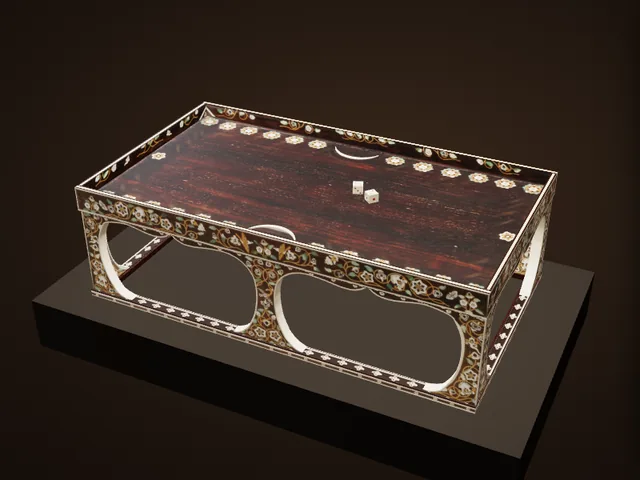
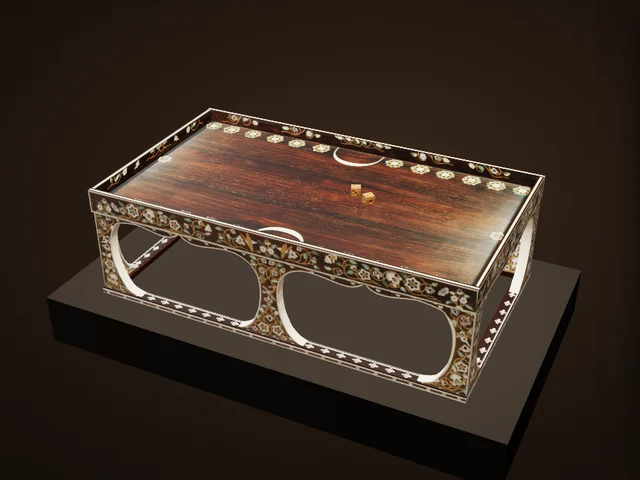
博物館：双六子を実寸の低いドーム形に、双六頭を古い象牙色に、壁の帯の白い三角を除去、PCで対局時に解説がスライド
Claude-Session: https://claude.ai/code/session_019p8B6V1SGvFhMnDpobjUww

Changed region(s): [[0.0625, 0.1875, 0.9375, 0.9688], [0.25, 0.7812, 0.375, 0.8438], [0.375, 0.8438, 0.4062, 0.875]]

diff --git a/atlas/museum/ex/sugoroku.js b/atlas/museum/ex/sugoroku.js
@@ -30,7 +30,7 @@
   const OPEN_S = [[15.4, 3.62], [15.6, 3.81], [16.11, 4.38], [17.37, 4.75], [18.63, 4.72], [19.89, 4.56], [21.15, 4.31], [22.42, 4.1], [23.68, 4], [24.94, 3.97], [26.2, 4.19], [26.86, 4.56], [27.47, 5.19], [27.97, 6.12], [28.27, 7.25], [28.41, 8.5], [28.41, 9.5], [28.27, 10.5], [28.07, 11.5], [27.72, 12.5], [27.26, 13.37], [26.71, 14.12], [25.95, 14.69], [25.04, 15.4], [24.18, 15.85], [20.2, 15.85], [15.45, 15.85], [10.6, 15.85], [6.56, 15.85], [5.65, 15.5], [4.95, 14.87], [4.14, 14], [3.53, 13], [3.08, 12], [2.78, 11], [2.63, 10], [2.57, 9], [2.63, 8], [2.78, 6.87], [3.13, 5.75], [3.53, 5], [4.04, 4.5], [4.54, 4.19], [5.05, 3.97], [6.06, 3.79], [7.07, 3.75], [8.08, 3.81], [9.09, 3.94], [10.1, 4.12], [11.11, 4.31], [12.12, 4.44], [13.13, 4.5], [14.14, 4.38], [14.64, 4.12], [15.05, 3.75]];
   (window.AtlasEx = window.AtlasEx || {}).sugoroku = {
     ready: () => { const get = (f, set) => new Promise(res => { const im = new Image(); im.onload = () => { set(im); res(); }; im.onerror = () => res(); im.src = new URL('../../../images/atlas/ex/' + f, HERE).href; setTimeout(res, 8000); });
-      return Promise.all([get('sugoroku-sides.webp?v=2', im => { SIDE = im; }), get('sugoroku-top.webp?v=4', im => { TOP = im; })]); },
+      return Promise.all([get('sugoroku-sides.webp?v=2', im => { SIDE = im; }), get('sugoroku-top.webp?v=5', im => { TOP = im; })]); },
     build(TT, X, K) {
       const G = new TT.Group();
       const L = 54.3, W = 31.0, H = 16.7, RAIL = .8, BASE = 13.3, LIN = .9, EDGE = H - BASE, RIM = 1.9, RT = .7;   // (RIM: the wall round the field stands upright, about 1.9 high — the overall photograph)   // LIN: the strip of rosettes at the top of the base
@@ -252,10 +252,20 @@
       [[L, 1.8, 0, W / 2 - .9, 0], [L, 1.8, 0, -W / 2 + .9, Math.PI]].forEach(([len, d, x, z]) => add(new TT.BoxGeometry(len, RAIL, d), [z > 0 ? rA : rB, z > 0 ? rB : rA, railIn, railIn, z > 0 ? rL : railIn, z > 0 ? railIn : rL], x, RAIL / 2, z));
       [[1.8, W - 3.6, L / 2 - .9, 0], [1.8, W - 3.6, -L / 2 + .9, 0]].forEach(([wd, d, x]) => add(new TT.BoxGeometry(wd, RAIL, d), [x > 0 ? rW : railIn, x > 0 ? railIn : rW, railIn, railIn, railIn, railIn], x, RAIL / 2, 0));
       /* ---------- two ivory dice (双六頭, ~1.35 cm; opposite faces add up to 7) ---------- */
-      const pipT = n => K.tex(128, 128, (g, w) => { g.fillStyle = '#efe3c6'; g.fillRect(0, 0, w, w); g.fillStyle = n === 1 ? '#a8322a' : '#2a1a10';
-        const P = { 1: [[.5, .5]], 2: [[.28, .28], [.72, .72]], 3: [[.25, .25], [.5, .5], [.75, .75]], 4: [[.28, .28], [.72, .28], [.28, .72], [.72, .72]], 5: [[.25, .25], [.75, .25], [.5, .5], [.25, .75], [.75, .75]], 6: [[.28, .22], [.72, .22], [.28, .5], [.72, .5], [.28, .78], [.72, .78]] }[n];
-        P.forEach(([x, y]) => { g.beginPath(); g.arc(x * w, y * w, w * (n === 1 ? .14 : .09), 0, 6.29); g.fill(); }); });
-      const dieM = [1, 6, 2, 5, 3, 4].map(n => K.mat({ map: pipT(n), color: '#ffffff', roughness: .38, clearcoat: .3 }));   // +x 1 / −x 6, +y 2 / −y 5, +z 3 / −z 4
+      // (2026-11-23, after the Shōsōin's photograph of its 双六頭, 北倉17: old ivory gone a warm tan, darker and rubbed at the edges and corners,
+      //  the pips drilled hollows — most still dark with their filling, the one red; a bump map sinks them)
+      const PIPS = { 1: [[.5, .5]], 2: [[.28, .28], [.72, .72]], 3: [[.25, .25], [.5, .5], [.75, .75]], 4: [[.28, .28], [.72, .28], [.28, .72], [.72, .72]], 5: [[.25, .25], [.75, .25], [.5, .5], [.25, .75], [.75, .75]], 6: [[.28, .22], [.72, .22], [.28, .5], [.72, .5], [.28, .78], [.72, .78]] };
+      const pipT = (n, bump) => K.tex(128, 128, (g, w) => { const nz = K.noise(60 + n), img = g.createImageData(w, w), d = img.data;
+        for (let y = 0; y < w; y++) for (let x = 0; x < w; x++) { const i = (y * w + x) * 4, e = Math.min(x, y, w - 1 - x, w - 1 - y) / w, edge = Math.max(0, 1 - e / .09), c = Math.max(0, 1 - Math.hypot(Math.min(x, w - 1 - x), Math.min(y, w - 1 - y)) / (w * .16));
+          if (bump) { const v = 200 - edge * edge * 110 - c * 60; d[i] = d[i + 1] = d[i + 2] = v; }
+          else { const k = (.9 + nz(x / 26, y / 26, 3) * .22 + (nz(x / 3, y / 9, 2) - .5) * .08) * (1 - edge * .2 - c * .18); d[i] = 178 * k; d[i + 1] = 118 * k; d[i + 2] = 62 * k; }
+          d[i + 3] = 255; }
+        g.putImageData(img, 0, 0);
+        PIPS[n].forEach(([x, y], q) => { const r = w * (n === 1 ? .12 : .085); g.beginPath(); g.arc(x * w, y * w, r, 0, 6.29);
+          if (bump) { const gr = g.createRadialGradient(x * w, y * w, 0, x * w, y * w, r); gr.addColorStop(0, '#000'); gr.addColorStop(.75, '#202020'); gr.addColorStop(1, '#b0b0b0'); g.fillStyle = gr; }
+          else g.fillStyle = n === 1 ? '#9c2a22' : (n * 7 + q * 3) % 5 === 0 ? '#7a5632' : '#22140c';   // (here and there the filling is lost: a bare hollow)
+          g.fill(); if (!bump) { g.strokeStyle = 'rgba(90,54,26,.7)'; g.lineWidth = w * .012; g.stroke(); } }); }, bump ? { data: true } : undefined);
+      const dieM = [1, 6, 2, 5, 3, 4].map(n => K.mat({ map: pipT(n), bumpMap: pipT(n, true), bumpScale: 1.6, color: '#ffffff', roughness: .58 }));   // +x 1 / −x 6, +y 2 / −y 5, +z 3 / −z 4
       const dieG = new TT.BoxGeometry(1.35, 1.35, 1.35), shown = [];
       [[4.5, -2.0, .4, .3], [7.0, -.6, -.7, 1.1]].forEach(([x, z, r1, r2]) => { const d = add(dieG, dieM, x, BASE + EDGE - RIM + .68, z); d.rotation.set(0, r1, 0); shown.push(d); });
       // for a game on this board (所蔵品で遊ぶ, atlas/museum/play.js): the field's height, the rows of points, the dice (the two laid out for show are put away)

diff --git a/atlas/museum/play.js b/atlas/museum/play.js
@@ -95,25 +95,28 @@
           dot: ['background:radial-gradient(circle at 35% 30%,#6a6a96,#34345a 60%,#1e1e38)', 'background:radial-gradient(circle at 35% 30%,#e0607a,#9b1b2e 60%,#5e0d1a)'] };
         return g; } },
     // 木画紫檀双六局 (1 = 1 cm): 盤双六, the 本双六 rules (atlas/games/sugoroku.js). The stones after the Shōsōin's own 双六子 (北倉18): fifteen of
-    // green glass (緑瑠璃, 1.4–1.5 across, 0.7–0.8 thick) for you and fifteen of yellow glass (黄瑠璃, 1.3–1.5, 0.6–0.7) for the AI — round, domed on
-    // top (the Shōsōin's photograph). Each point is a flower on the long rim; its stones line up from the flower toward the middle; cut stones wait
+    // green glass (緑瑠璃, 1.4–1.5 across, 0.7–0.8 thick) for you and fifteen of yellow glass (黄瑠璃, 1.3–1.5, 0.6–0.7) for the AI — round, a low
+    // dome (the Shōsōin's photograph). Each point is a flower on the long rim; its stones line up from the flower toward the middle; cut stones wait
     // in the middle strip; the dice are the board's two ivory dice (the pair laid out for show is put away).
     sugoroku: { game: 'sugoroku', area: [-27.3, 27.3, -15.6, 15.6], view: { yaw: 0, pit: 1.2, d: .8, dp: .58, long: true, dv: .62, dvw: .95, pv: 1.35 }, noContact: true,
       board(TH, obj, K) {
-        const P = obj.userData.play, g = new TH.Group(), Y = P.top, R = P.row, SP = 2.4, PER = 5, TH0 = .95;
+        const P = obj.userData.play, g = new TH.Group(), Y = P.top, R = P.row, SP = 1.62, PER = 5, TH0 = .75;
         // the points where the board's own flowers are (measured on the photograph the face is made from: they stand a little off an even pitch)
-        const XS = [-24.76, -21.46, -17.8, -14.05, -10.28, -6.59, 5.38, 9.58, 13.56, 17.38, 21.03, 24.73], colX = c => XS[c - 1];
+        const XS = [-25.28, -21.7, -17.94, -14.07, -10.2, -6.03, 5.9, 9.75, 13.55, 17.4, 21.08, 24.77], colX = c => XS[c - 1];
         // a point's stones: on the flower, then in a line toward the middle, five to a line; more go on top, half a stone along
         const slot = (abs, k) => { const near = abs <= 12, c = near ? abs : 25 - abs, L = Math.floor(k / PER); return [colX(c), Y + L * TH0, (near ? 1 : -1) * (R - (k % PER) * SP - (L % 2) * SP / 2)]; };
-        const bar = (side, k) => [(side ? 1 : -1) * (2.9 + k * 2.4) - .4, Y, 0];
+        const bar = (side, k) => [(side ? 1 : -1) * (2.9 + k * 1.7) - .4, Y, 0];
         const hit = (x, z) => { if (Math.abs(z) < 1.9) return 0; if (Math.abs(z) > R + 1.6) return -1; let c = 0, bd = 1e9; for (let i = 1; i <= 12; i++) { const d = Math.abs(x - colX(i)); if (d < bd) { bd = d; c = i; } } if (bd > 2.1) return -1; return z > 0 ? c : 25 - c; };
         // twelve-hundred-year-old glass: translucent and deep in colour (as in the Shōsōin's photograph — a dark bottle green, a honey yellow), the surface
         // dulled and faintly pitted by age, no plastic gloss (a noise roughness map, a soft clearcoat)
         const pits = K.tex(128, 128, (c, w, h) => { c.fillStyle = '#9a9a9a'; c.fillRect(0, 0, w, h); for (let i = 0; i < 700; i++) { const v = 120 + Math.random() * 120 | 0; c.fillStyle = `rgb(${v},${v},${v})`; c.globalAlpha = .5; c.beginPath(); c.arc(Math.random() * w, Math.random() * h, .6 + Math.random() * 2.2, 0, 6.3); c.fill(); } c.globalAlpha = 1; });
         const PH = matchMedia('(pointer:coarse)').matches, glass = (col, deep) => K.mat({ color: col, roughness: .42, roughnessMap: pits, metalness: 0, transmission: PH ? 0 : .45, thickness: .7, ior: 1.5, attenuationColor: K.lin ? K.lin(deep) : deep, attenuationDistance: .6, clearcoat: .35, clearcoatRoughness: .45 });
         const MAT = [glass('#2f6a44', '#123a22'), glass('#b8923a', '#6a4a10')];
-        const geo = (d, t) => new TH.LatheGeometry([[0, 0], [d * .46, 0], [d / 2, t * .12], [d * .49, t * .32], [d * .43, t * .62], [d * .3, t * .87], [d * .14, t * .98], [0, t]].map(([a, b]) => new TH.Vector2(Math.max(.001, a), b)), 32);
-        const GEO = [geo(2.3, .95), geo(2.3, .9)];   // (played larger than the originals, 1.3–1.5 cm: about the size of the board's flowers, easy to see and tap)
+        // the Shōsōin's 双六子 (北倉18; its record: 径1.3強〜1.5, 厚0.7〜0.8), at their real size since 2026-11-23: a flat underside, a short rounded
+        // edge and a low dome that is nearly flat on top — a cabochon, not a ball (the Shōsōin's photograph CD0000000182)
+        const geo = (d, t) => { const R0 = d / 2, pts = [[0, 0], [R0 * .9, 0], [R0 * .97, t * .05], [R0, t * .16]]; for (let i = 1; i <= 10; i++) { const u = i / 10, r = R0 * Math.cos(u * Math.PI / 2); pts.push([r, t * (.16 + .84 * Math.pow(Math.sin(u * Math.PI / 2), .78))]); }
+          return new TH.LatheGeometry(pts.map(([a, b]) => new TH.Vector2(Math.max(.001, a), b)), 36); };
+        const GEO = [geo(1.5, .75), geo(1.45, .72)];
         const stone = side => { const m = new TH.Mesh(GEO[side], MAT[side]); m.castShadow = m.receiveShadow = true; return m; };
         const die = () => { const m = new TH.Mesh(P.dieG, P.dieM); m.castShadow = m.receiveShadow = true; return m; };
         const diceAt = (side, i) => [-1.6 + i * 2.3, side ? -2.7 : 2.7];   // (in the gap between the two tables, clear of the lines of stones and the middle strip)

diff --git a/atlas/museum/gallery.js b/atlas/museum/gallery.js
@@ -10,7 +10,7 @@
    (a turn, a zoom, the slow turntable) and never while the window is in the background. */
 (function () {
   'use strict';
-  const V = 124;
+  const V = 125;
   /* ---------- the pieces: id, the game it belongs to, its scale (cm per model unit), the camera's start, the details ----------
      lock: { game, ach } → open after that many achievements of the game. src: the files the piece needs (besides ex/<id>.js) */
   const EX = [
@@ -155,7 +155,7 @@
             const quit = () => { if (window.AtlasMuseumPlay) AtlasMuseumPlay.stop(); rulesOn(false); playing(false); };
             const ok = AtlasMuseumPlay.start(id, { course: true, lang, onExit: quit, onPlay: () => { quit(); setTimeout(() => pb.click(), 60); } });
             if (!ok) return; rul.classList.remove('new'); playing(true); acts.hidden = true; clearInterval(poll); rulesOn(true); ov.quitPlay = quit; }); };
-        const playing = on => { if (!on && ov.fillLv) setTimeout(ov.fillLv, 50); { const rb = ov.querySelector('.exres'); if (rb) rb.remove(); } ov.classList.remove('exv-cfg'); if (cfg) cfg.classList.remove('on'); ov.classList.toggle('exv-play', on); pb.hidden = on; acts.hidden = !on; clearInterval(poll); if (on) { syncActs(); poll = setInterval(syncActs, 350); } lock = on; shut(); if (!on) hudEl.innerHTML = ''; };
+        const playing = on => { if (!on && ov.fillLv) setTimeout(ov.fillLv, 50); { const rb = ov.querySelector('.exres'); if (rb) rb.remove(); } ov.classList.remove('exv-cfg'); if (cfg) cfg.classList.remove('on'); if (ov.slide && innerWidth >= 820) ov.slide(() => ov.classList.toggle('exv-play', on)); else ov.classList.toggle('exv-play', on); pb.hidden = on; acts.hidden = !on; clearInterval(poll); if (on) { syncActs(); poll = setInterval(syncActs, 350); } lock = on; shut(); if (!on) hudEl.innerHTML = ''; };
         const quitGame = () => { if (window.AtlasMuseumPlay) AtlasMuseumPlay.stop(); playing(false); }; ov.quitPlay = quitGame;
         pb.onclick = () => { if (!V3 || !V3.obj) return; pb.disabled = true;
           try { const q = JSON.parse(localStorage.getItem(PK) || '{}'); q[id] = { lv: +lvS.dataset.v, side: +sdS.dataset.v }; localStorage.setItem(PK, JSON.stringify(q)); } catch (x) {}
@@ -183,11 +183,14 @@
       // case's size eases from where it is to where the new state puts it; each step is drawn at once (resize → render), so the piece,
       // its numbers and the scale bar glide with the panel
       let anim = 0;
-      const setSt = (st, ms = 320) => { cancelAnimationFrame(anim); const sh = sheet(), key = sh ? '--sth' : '--exw', cur = () => sh ? stage.clientHeight : ov.clientWidth - stage.clientWidth, from = cur();
-        ov.dataset.st = st; wb.classList.toggle('on', st === 'big'); ov.style.removeProperty('--sth'); ov.style.removeProperty('--exw'); const to = cur();
+      // (slide(change): any change of layout — a new state, a game starting or ending — is run the same way)
+      const slide = (change, ms = 320) => { cancelAnimationFrame(anim); const sh = sheet(), key = sh ? '--sth' : '--exw', cur = () => sh ? stage.clientHeight : ov.clientWidth - stage.clientWidth, from = cur();
+        change(); ov.style.removeProperty('--sth'); ov.style.removeProperty('--exw'); const to = cur();
         if (Math.abs(to - from) < 2 || !ms) return; ov.style.setProperty(key, from + 'px'); ov.classList.add('exv-anim'); const t0 = performance.now();
         const step = now => { const k = Math.min(1, (now - t0) / ms), e = 1 - Math.pow(1 - k, 3); if (k >= 1 || !ov.isConnected) { ov.style.removeProperty(key); ov.classList.remove('exv-anim'); return; } ov.style.setProperty(key, (from + (to - from) * e).toFixed(1) + 'px'); anim = requestAnimationFrame(step); };
         anim = requestAnimationFrame(step); };
+      const setSt = (st, ms) => slide(() => { ov.dataset.st = st; wb.classList.toggle('on', st === 'big'); }, ms);
+      ov.slide = slide;   // (on a computer the texts slide away when a game starts and slide back when it ends: 2026-11-23)
       wb.onclick = () => setSt(ov.dataset.st === 'big' ? '' : 'big');
       let d = null;
       grab.onpointerdown = ev => { if (!sheet()) return; cancelAnimationFrame(anim); ov.classList.remove('exv-anim'); grab.setPointerCapture(ev.pointerId); d = { y: ev.clientY, h: stage.clientHeight, moved: 0 };

diff --git a/atlas/museum.js b/atlas/museum.js
@@ -32,7 +32,7 @@
   const ROOMS = [
     { id: 'map', ready: () => !!window.AtlasMap, render: (el, c) => AtlasMap.render(el, c) },
     { id: 'tree', src: ['museum/tree.js?v=3'], ready: () => !!window.AtlasTree, render: (el, c) => AtlasTree.render(el, c) },
-    { id: 'gallery', src: ['museum/gallery.js?v=124'], ready: () => !!window.AtlasGallery, render: (el, c) => AtlasGallery.render(el, c) },
+    { id: 'gallery', src: ['museum/gallery.js?v=125'], ready: () => !!window.AtlasGallery, render: (el, c) => AtlasGallery.render(el, c) },
   ];
   const KEY = 'atlas-museum-room';
   const esc = s => String(s == null ? '' : s).replace(/[&<>"]/g, c => ({ '&': '&amp;', '<': '&lt;', '>': '&gt;', '"': '&quot;' }[c]));

diff --git a/atlas/index.html b/atlas/index.html
@@ -2563,7 +2563,7 @@ window.AtlasRgdTimer = function (btn, ms, alive) {
 <link rel="stylesheet" href="worldmap.css?v=19">
 <link rel="stylesheet" href="museum.css?v=29">
 <script src="worldmap.js?v=40"></script>
-<script src="museum.js?v=125"></script>
+<script src="museum.js?v=126"></script>
 <script src="npc/npc.js?v=47"></script>
 <script src="avtalk.js?v=4"></script>
 <script>/* Page states as classes on <html> (2026-11-21) — html.cov-on: the 3D view / Historia / a sheet / a level sheet is open;

diff --git a/claude/museum-spec.md b/claude/museum-spec.md
@@ -349,3 +349,9 @@
   正面写真の盤面部分を正方形に直し、両端の壁の影を明るさの補正で除いて sugoroku-top.webp の盤面部分に書き込む（`atlas/museum/tools/sugoroku-top.py`、四すみの座標もそこ）。壁の内側の帯は従来の写真のまま。
   花の位置を実測して定数を更新：壁から 1.5cm、中央から 5.95cm、間隔 3.8cm（対局の石の位置もこれを使う）。三日月は実物どおり盤面と同じ高さの象嵌（写真のまま）とし、盛り上がった部品はやめた。
 
+- 2026-11-23：**双六局の石・サイコロ・壁の帯、対局時の解説のスライド**
+  - 双六子は実寸に（正倉院の記録：径1.3強〜1.5、厚0.7〜0.8）。平らな底・短い丸い縁・頂がほぼ平らな低いドーム（写真 CD0000000182）。以前は見やすさ優先で径2.3の丸い形だった。石の間隔 1.62cm、列の位置は新しい盤面の花に合わせ直し。
+  - 双六頭は古い象牙の褐色、角と縁は濃く擦れ、目は彫り込み（バンプ）、所々詰め物が落ちた目。1の目は赤。
+  - 壁の内側の帯の端に写り込んでいた白い三角（元写真の隅の象牙線）を消した。
+  - PCでは、対局の開始で解説欄が右へスライドして消え、終了でスライドして戻る（`ov.slide`：解説の開閉と同じ仕組み）。スマホは従来どおり。
+
